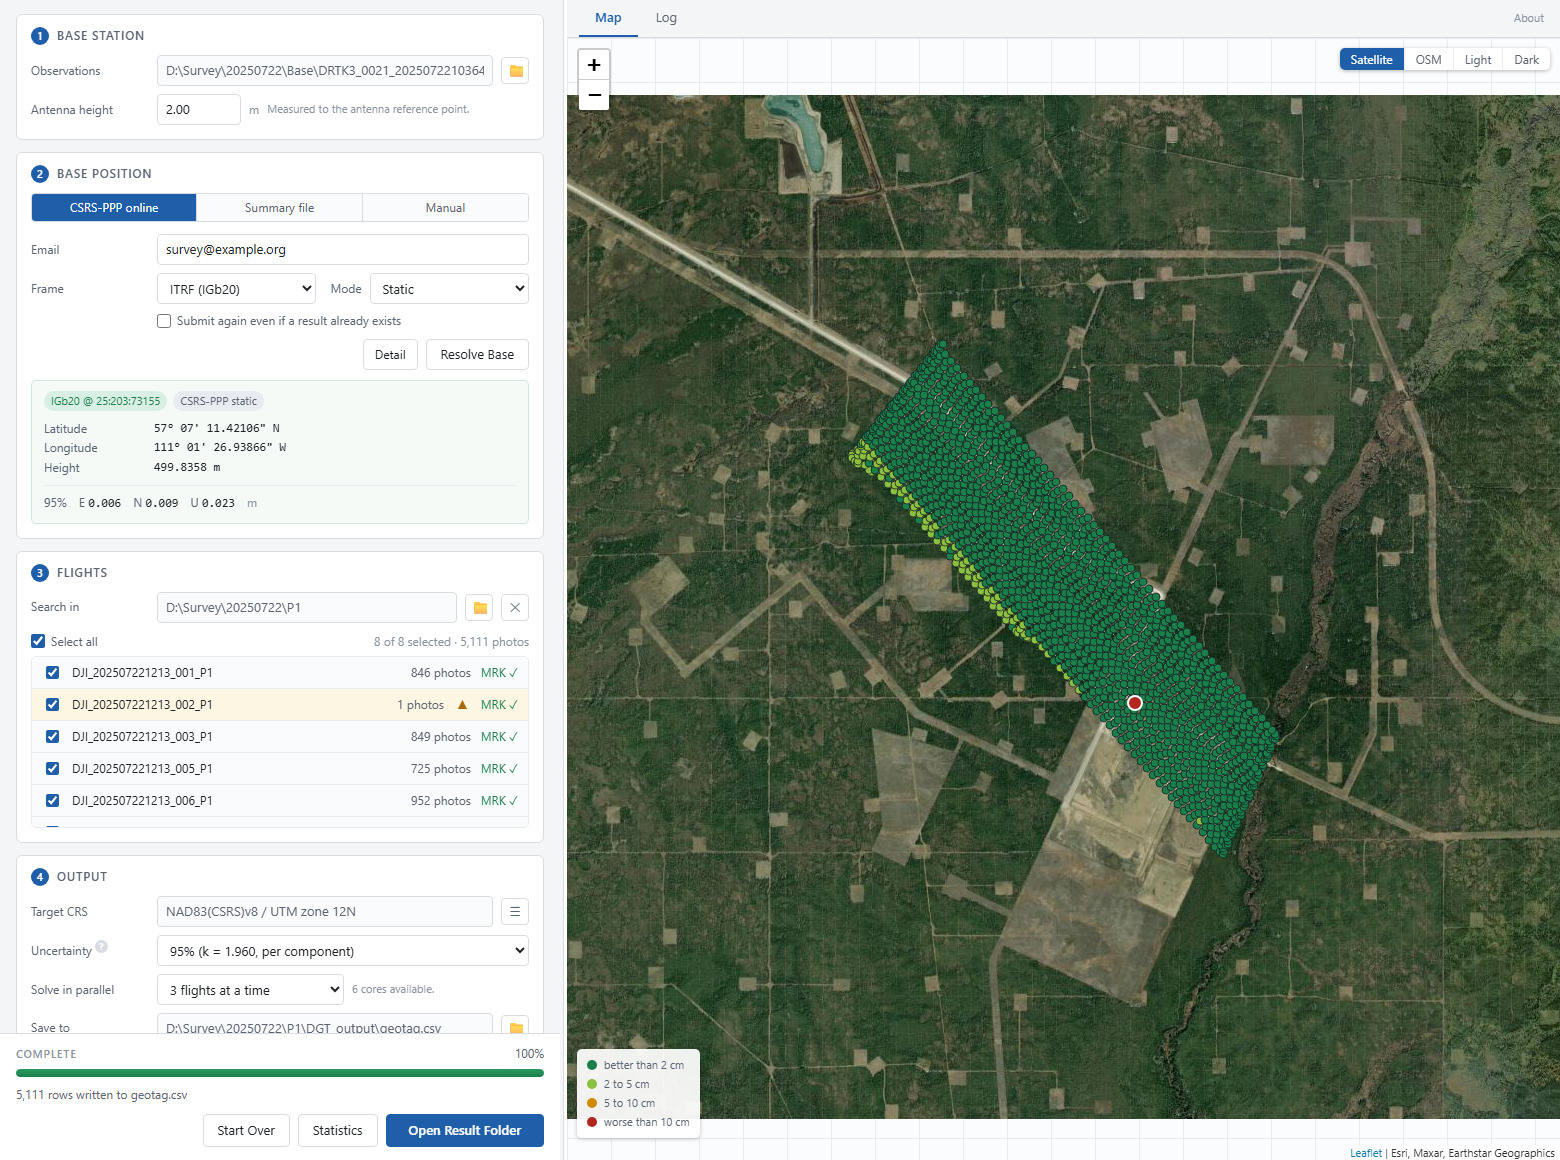
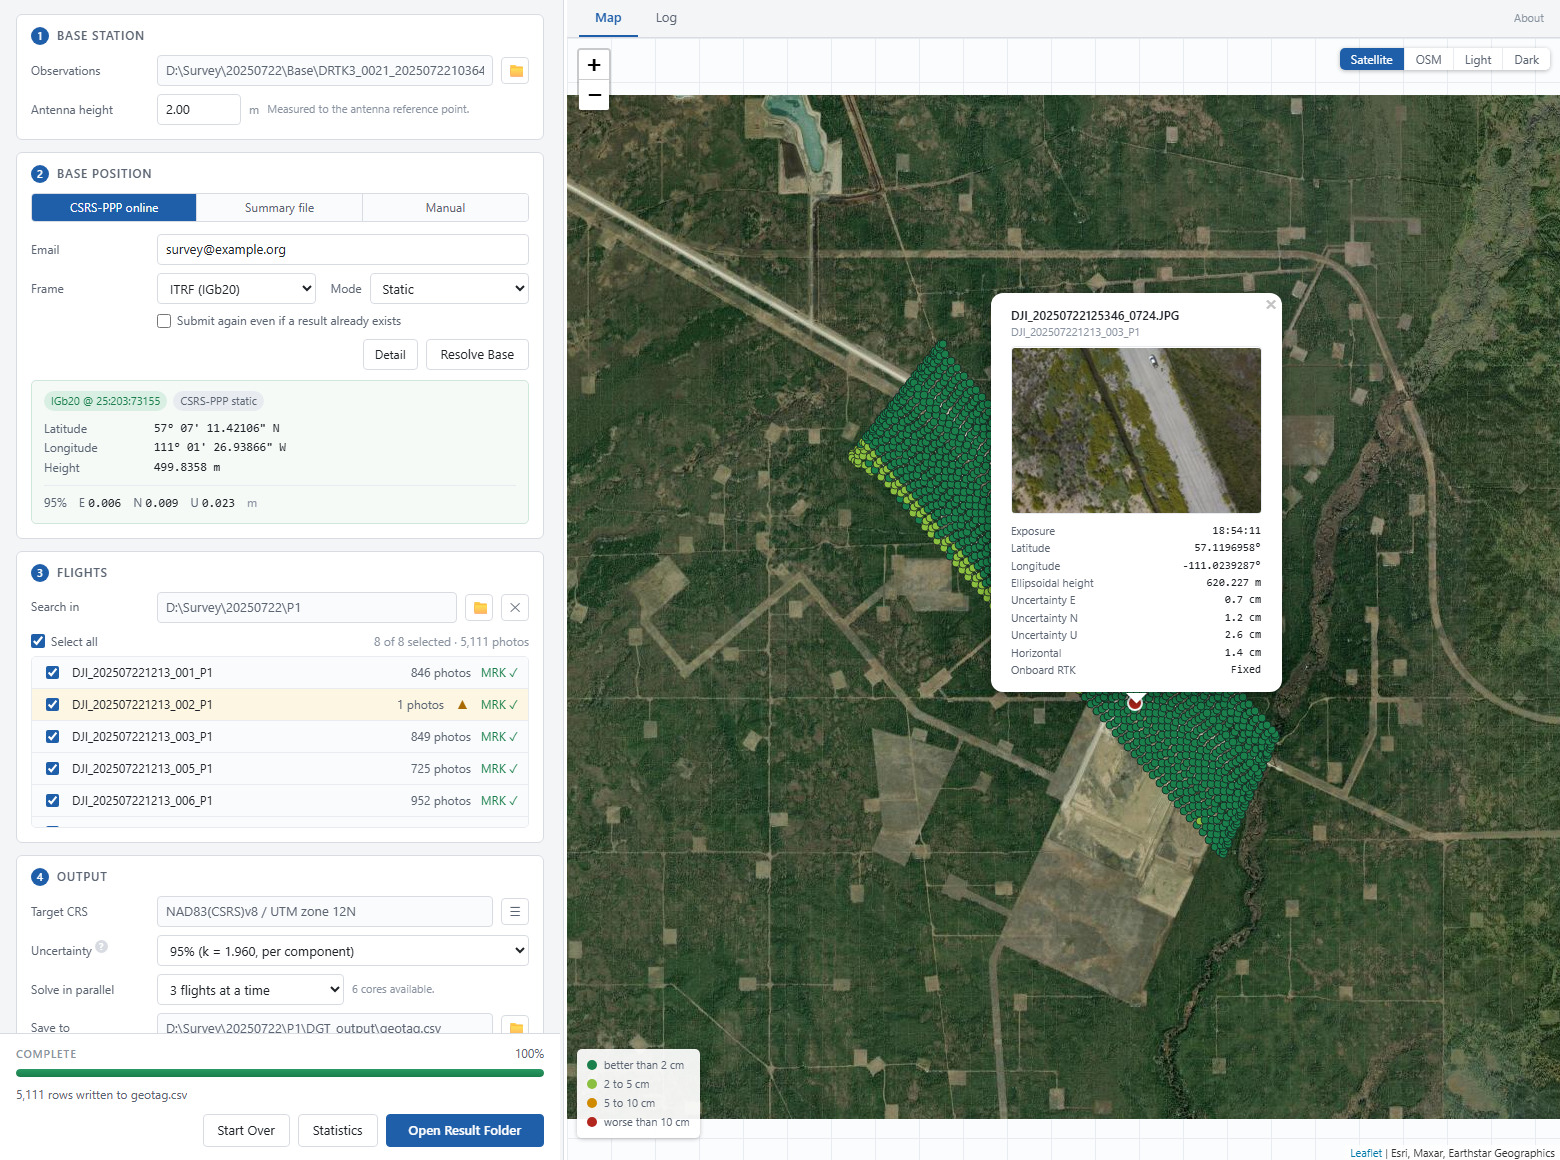
docs: open a camera point in the screenshot

Changed region(s): [[0.6154, 0.2483, 0.8308, 0.6207]]

diff --git a/README.md b/README.md
@@ -5,7 +5,8 @@
 This Python library enables centimetre-level camera geotagging by combining PPK `.pos` solutions, DJI `.MRK` gimbal offset corrections, and EXIF/XMP metadata from DJI RTK drone images. It is designed for photogrammetry and remote sensing workflows that require accurate EOPs.
 
 ![The desktop front end after a run: four configuration steps on the left, and
-5,111 corrected camera centres on the map coloured by their own horizontal
+5,111 corrected camera centres on the map, coloured by their own horizontal
+uncertainty and clickable down to the exposure, its preview and its full
 uncertainty.](docs/screenshot.jpg)
 
 ## Features
